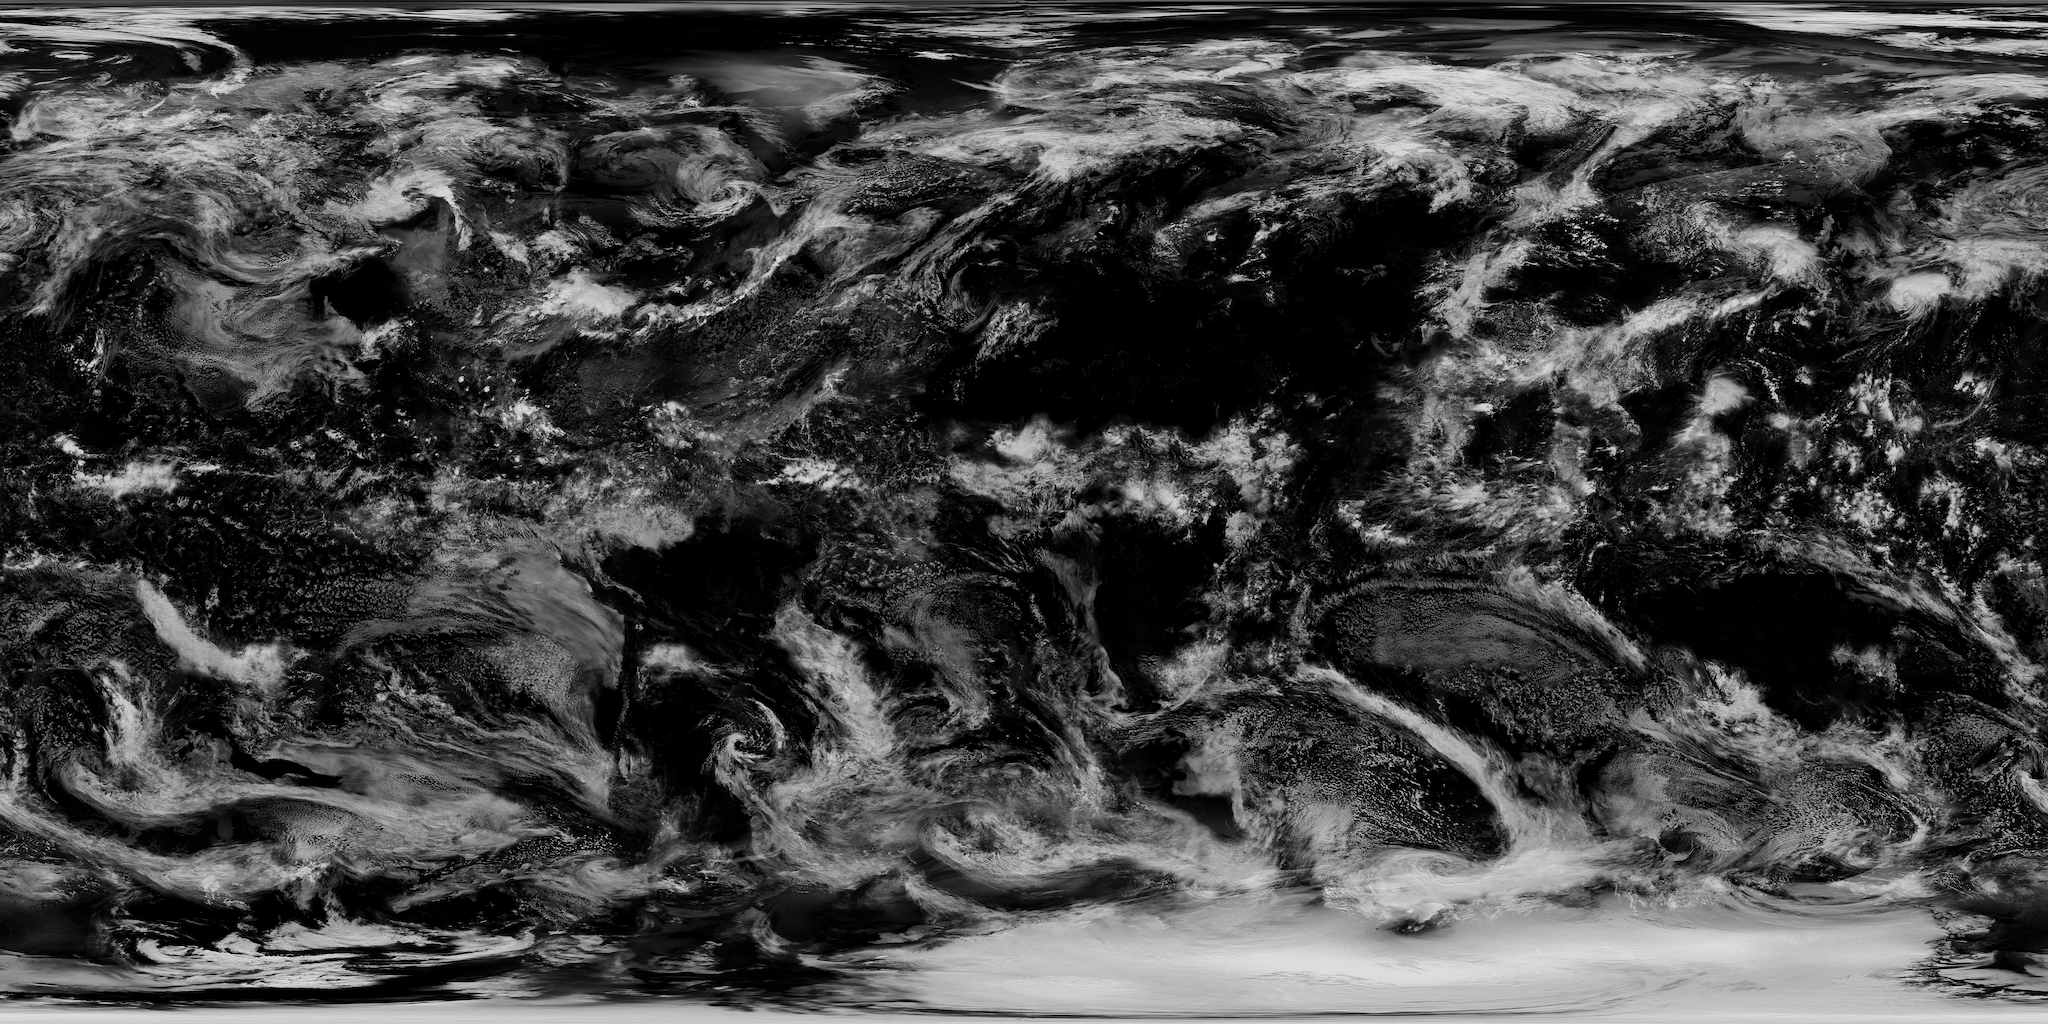
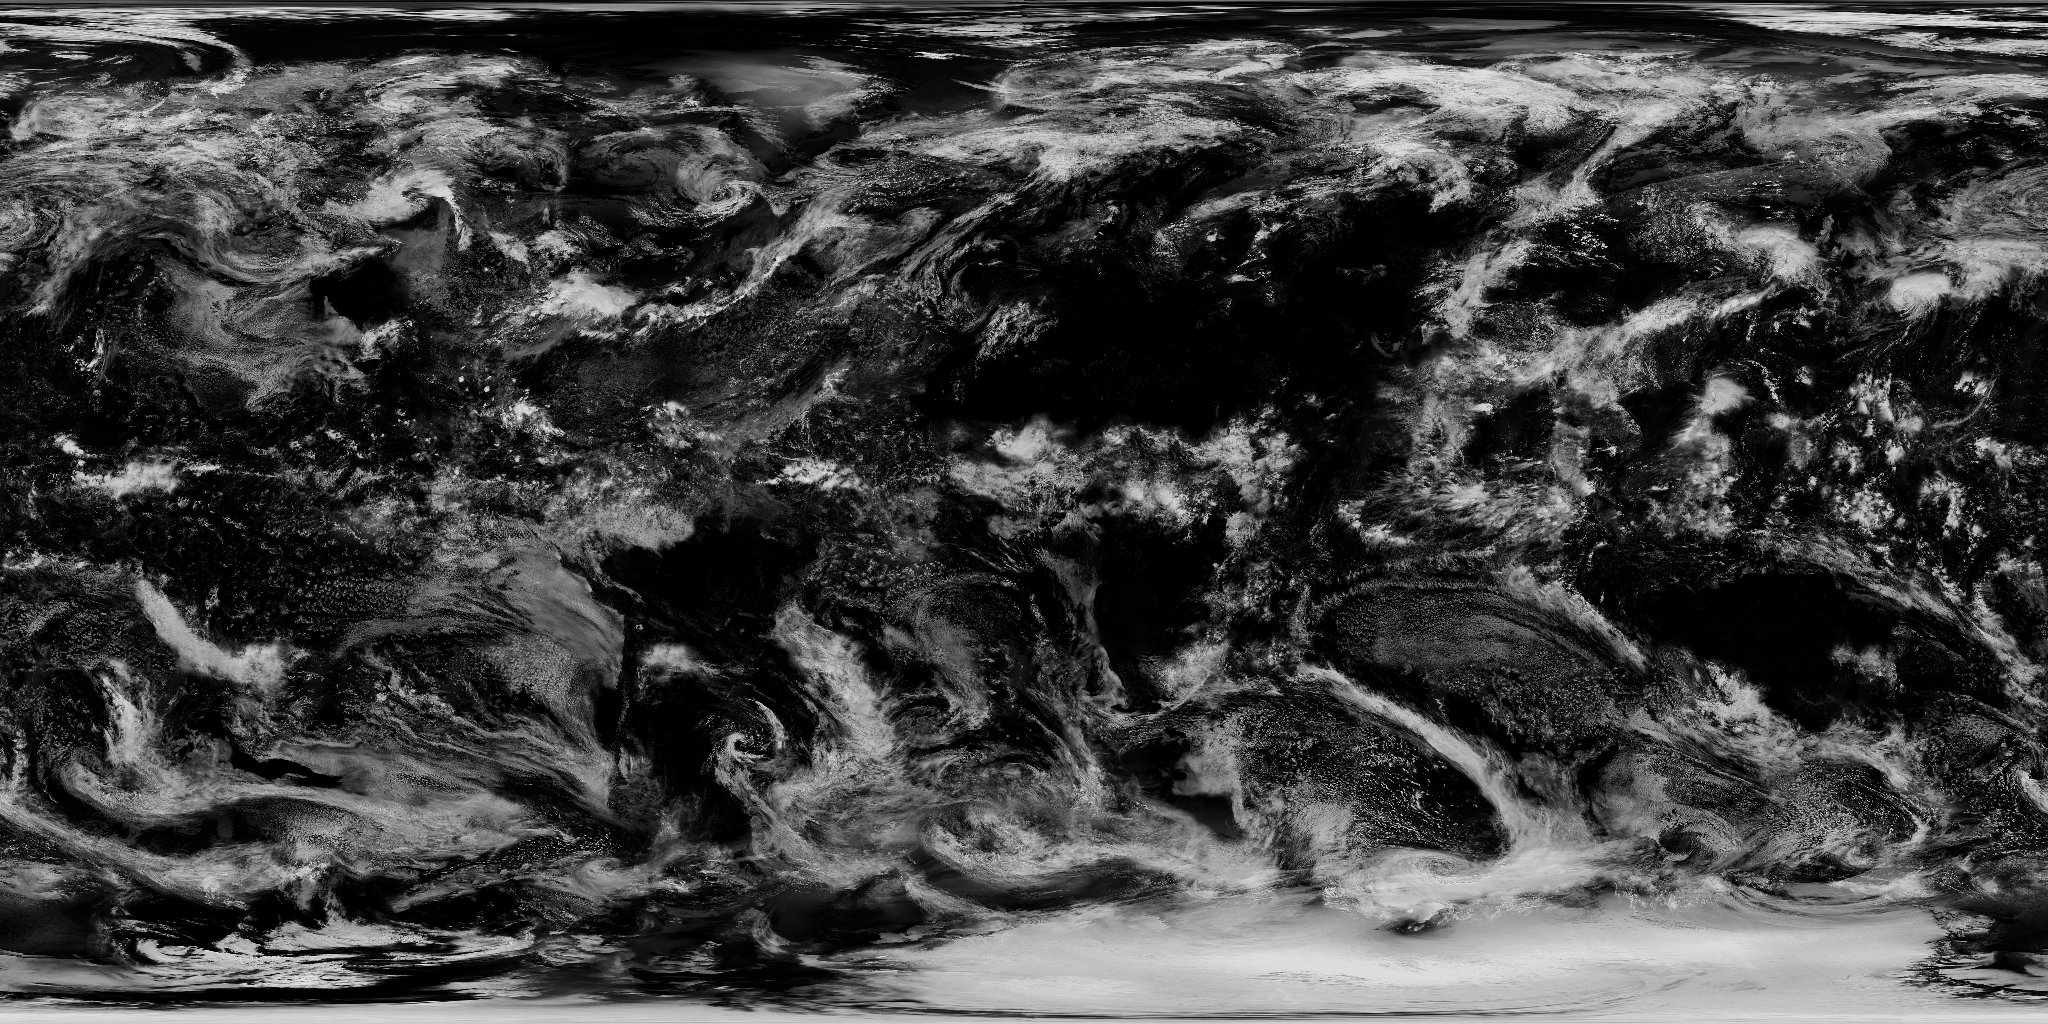
optimize images

diff --git a/src/globe.jsx b/src/globe.jsx
@@ -1,8 +1,8 @@
 import { useEffect, useMemo, useRef } from "react";
 import { Sparkles, useTexture } from "@react-three/drei";
 import { useFrame } from '@react-three/fiber';
-import clouds from '../assets/earth_clouds_diffuseOriginal.png';
-import map from '../assets/earth_diffuseOriginal.jpg';
+import clouds from '../assets/earth_clouds_diffuseOriginal.jpg';
+import map from '../assets/earth_diffuseOriginal.png';
 import normalMap from '../assets/earth_normal.jpg';
 import displacementMap from '../assets/earth_height.jpg';
 import aoMap from '../assets/earth_ao.jpg';
